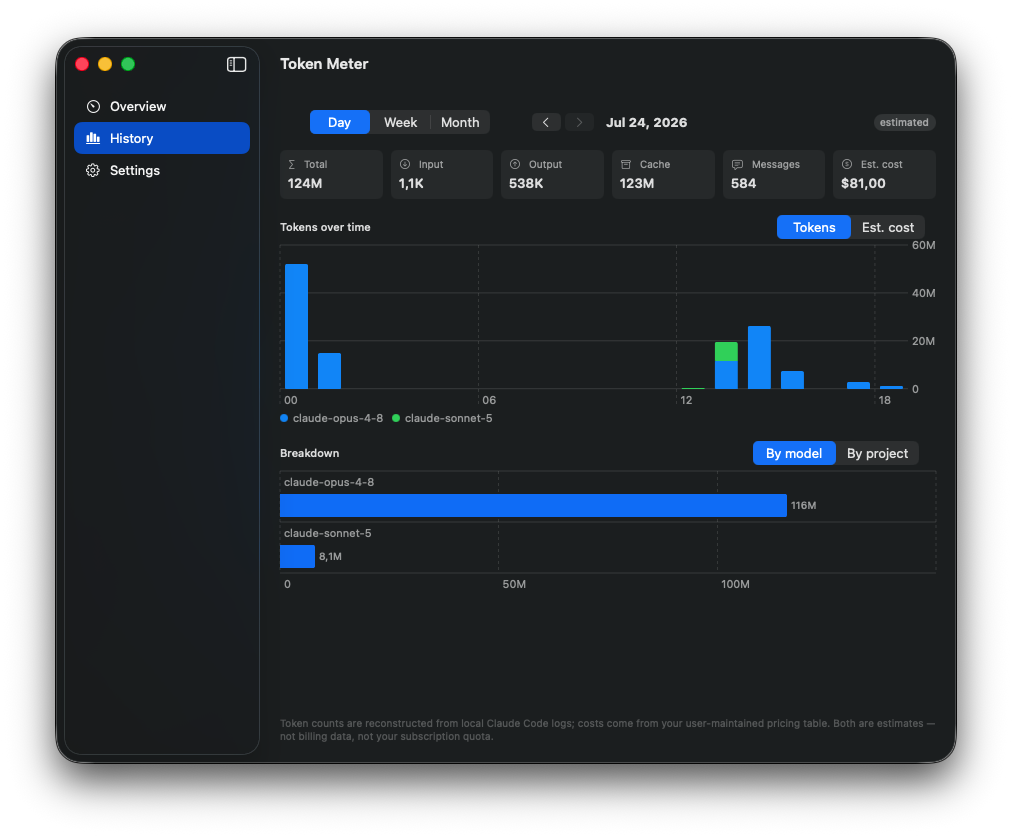
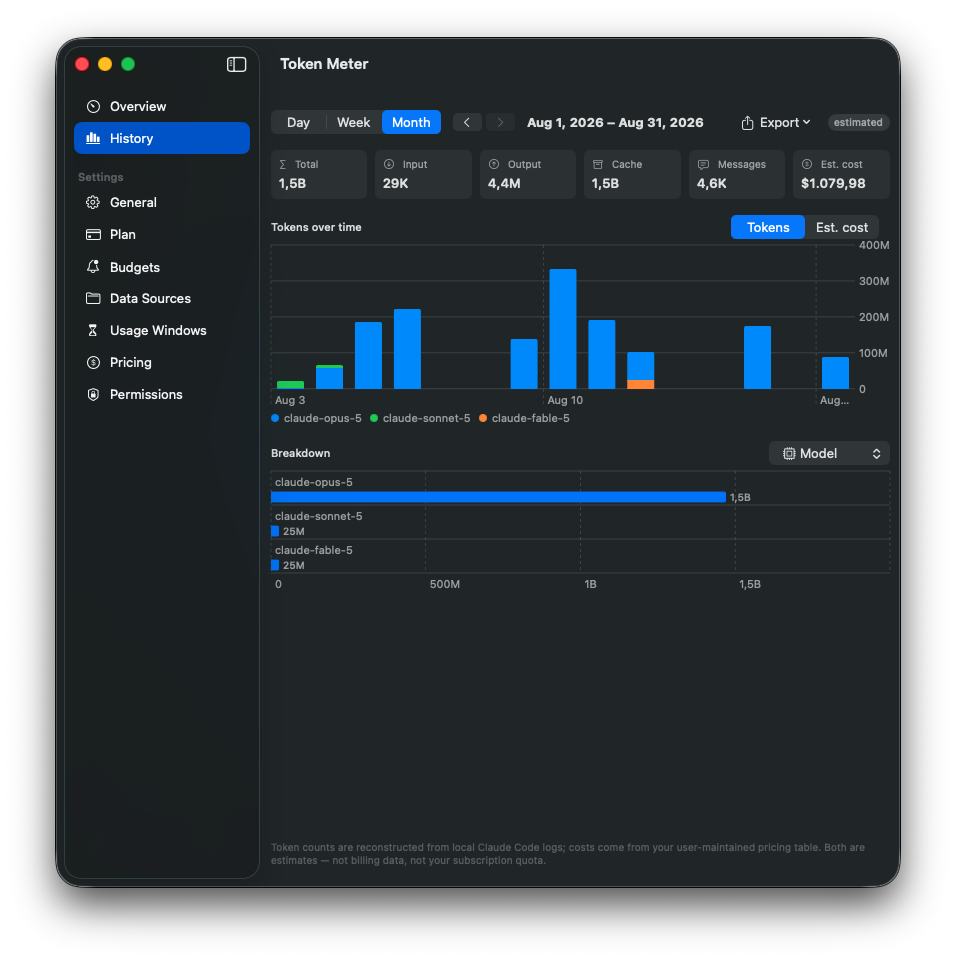
Update screenshots for 2.0, add Overview screenshot

diff --git a/README.md b/README.md
@@ -41,9 +41,9 @@ That's not a bug, it's the point — see [Plan value](#plan-value) below, which 
 
 ## Screenshots
 
-| Menu-bar dashboard | Desktop window (History) | Widget / floating HUD |
-|---|---|---|
-| ![Menu-bar dashboard](docs/img/menubar.png) | ![History window](docs/img/history.png) | ![Widget](docs/img/widget.png) |
+| Menu-bar dashboard | Desktop window (Overview) | Desktop window (History) | Widget / floating HUD |
+|---|---|---|---|
+| ![Menu-bar dashboard](docs/img/menubar.png) | ![Overview window](docs/img/overview.png) | ![History window](docs/img/history.png) | ![Widget](docs/img/widget.png) |
 
 ---
 
